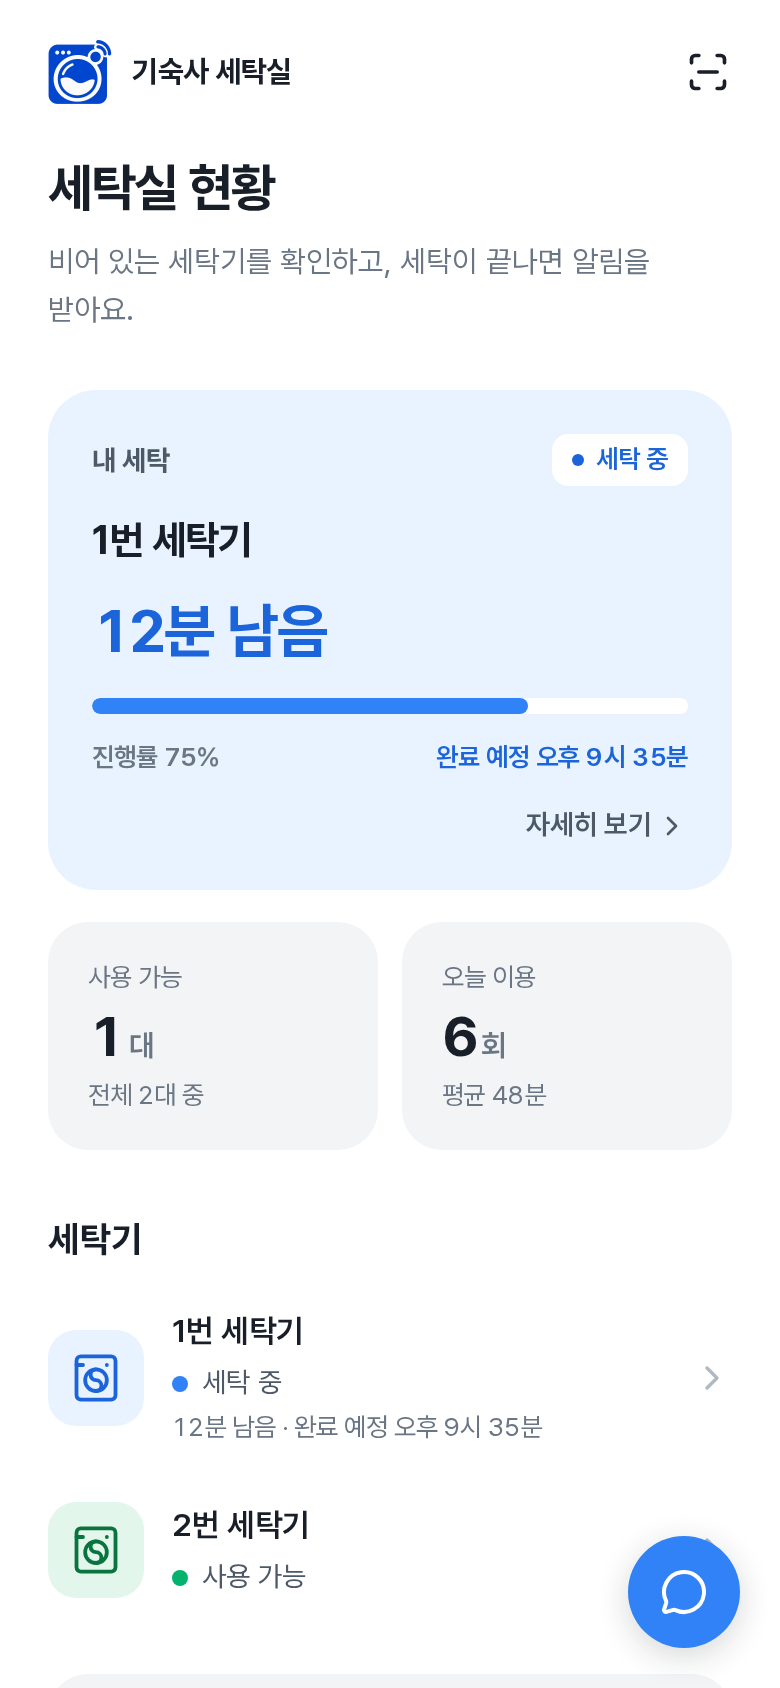
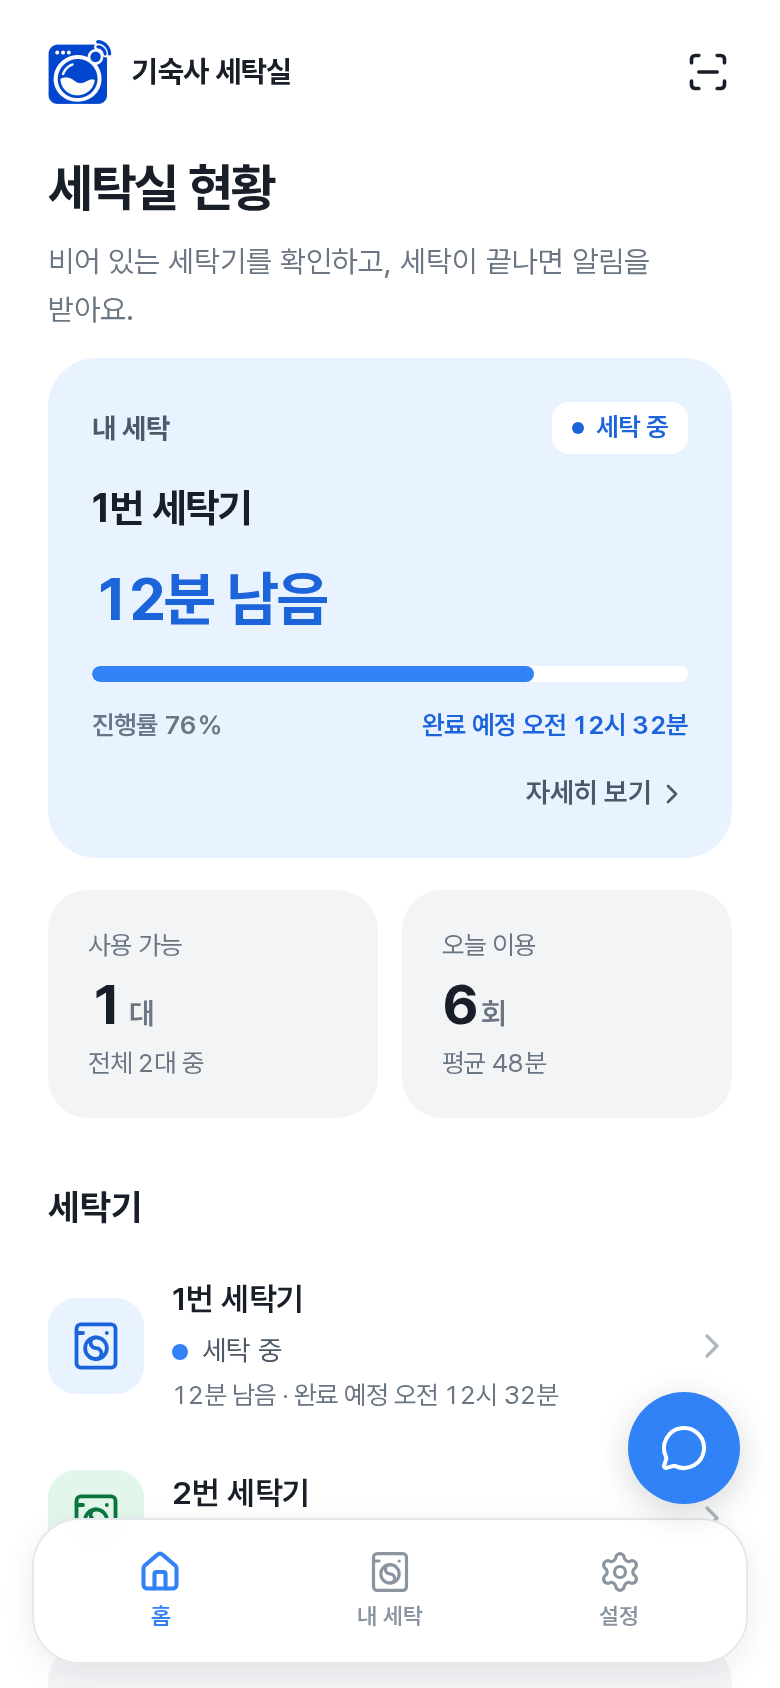
Add a bottom navigation with My wash and Settings screens
Home, My wash and Settings get a floating tab bar that only shows on
those screens. My wash shows the current wash at a glance (or a QR
scan prompt when there is none) with pickup/cancel actions; Settings
edits name and student ID, manages notifications and logs out. Adds
GET /api/me and lets pages refresh the washer overview after actions.

diff --git a/app/settings/page.tsx b/app/settings/page.tsx
@@ -1,0 +1,138 @@
+'use client';
+/* eslint-disable react-hooks/set-state-in-effect -- read browser-only state after hydration */
+
+import { useEffect, useState, type FormEvent } from 'react';
+import { useRouter } from 'next/navigation';
+import { pushSupported, registerPush } from '@/lib/push/client';
+
+type PushState = 'checking' | 'unsupported' | 'on' | 'off' | 'denied';
+
+const pushText: Record<PushState, string> = {
+  checking: '알림 상태를 확인하는 중이에요',
+  unsupported: '이 기기에서는 알림을 지원하지 않아요',
+  on: '알림이 켜져 있어요',
+  off: '알림이 꺼져 있어요',
+  denied: '기기 설정에서 이 앱의 알림을 허용해주세요',
+};
+
+function authHeaders() {
+  return { authorization: `Bearer ${localStorage.getItem('laundry-token') ?? ''}` };
+}
+
+export default function SettingsPage() {
+  const router = useRouter();
+  const [name, setName] = useState('');
+  const [studentId, setStudentId] = useState('');
+  const [saving, setSaving] = useState(false);
+  const [profileMessage, setProfileMessage] = useState('');
+  const [profileError, setProfileError] = useState('');
+  const [push, setPush] = useState<PushState>('checking');
+  const [pushBusy, setPushBusy] = useState(false);
+  const [pushMessage, setPushMessage] = useState('');
+  const [confirming, setConfirming] = useState(false);
+
+  useEffect(() => {
+    fetch('/api/me', { headers: authHeaders(), cache: 'no-store' })
+      .then((response) => (response.ok ? response.json() : null))
+      .then((data) => { if (data) { setName(data.nickname); setStudentId(data.studentId ?? ''); } })
+      .catch(() => {});
+    if (!pushSupported()) setPush('unsupported');
+    else setPush(Notification.permission === 'granted' ? 'on' : Notification.permission === 'denied' ? 'denied' : 'off');
+  }, []);
+
+  async function saveProfile(event: FormEvent<HTMLFormElement>) {
+    event.preventDefault();
+    if (saving) return;
+    setSaving(true);
+    setProfileMessage('');
+    setProfileError('');
+    try {
+      const response = await fetch('/api/users', {
+        method: 'POST',
+        headers: { 'content-type': 'application/json', ...authHeaders() },
+        body: JSON.stringify({ nickname: name.trim(), studentId: studentId.trim() }),
+      });
+      if (!response.ok) throw new Error('save failed');
+      try {
+        const saved = JSON.parse(localStorage.getItem('laundry-user') ?? '{}');
+        localStorage.setItem('laundry-user', JSON.stringify({ ...saved, nickname: name.trim() }));
+      } catch { /* the stored profile is only a cache */ }
+      setProfileMessage('저장했어요.');
+    } catch {
+      setProfileError('저장하지 못했어요. 이름과 학번을 확인하고 다시 시도해주세요.');
+    } finally {
+      setSaving(false);
+    }
+  }
+
+  async function enablePush() {
+    setPushBusy(true);
+    setPushMessage('');
+    try {
+      const permission = await Notification.requestPermission();
+      if (permission !== 'granted') { setPush(permission === 'denied' ? 'denied' : 'off'); return; }
+      await registerPush(localStorage.getItem('laundry-token') ?? '');
+      setPush('on');
+      setPushMessage('알림을 켰어요.');
+    } catch {
+      setPushMessage('알림을 연결하지 못했어요. 잠시 후 다시 시도해주세요.');
+    } finally {
+      setPushBusy(false);
+    }
+  }
+
+  async function testPush() {
+    setPushBusy(true);
+    setPushMessage('');
+    try {
+      const response = await fetch('/api/push/test', { method: 'POST', headers: authHeaders() });
+      setPushMessage(response.ok ? '테스트 알림을 보냈어요.' : '알림을 보내지 못했어요. 알림 연결을 다시 확인해주세요.');
+    } catch {
+      setPushMessage('알림을 보내지 못했어요.');
+    } finally {
+      setPushBusy(false);
+    }
+  }
+
+  function logout() {
+    localStorage.removeItem('laundry-token');
+    localStorage.removeItem('laundry-user');
+    window.dispatchEvent(new Event('laundry-profile-updated'));
+    router.replace('/');
+  }
+
+  return <>
+    <div className="topline"><span className="brand">설정</span></div>
+
+    <section className="panel" aria-label="내 정보">
+      <div className="panel-head"><h2>내 정보</h2></div>
+      <form onSubmit={(event) => void saveProfile(event)}>
+        <label className="eyebrow" htmlFor="setting-name">이름</label>
+        <input className="input" id="setting-name" autoComplete="name" maxLength={60} value={name} onChange={(event) => setName(event.target.value)} required />
+        <label className="eyebrow" htmlFor="setting-student-id">학번</label>
+        <input className="input" id="setting-student-id" autoComplete="off" inputMode="numeric" maxLength={32} value={studentId} onChange={(event) => setStudentId(event.target.value)} required />
+        {profileError && <p className="error" role="alert">{profileError}</p>}
+        {profileMessage && <p className="muted" role="status">{profileMessage}</p>}
+        <button className="button" type="submit" disabled={saving || !name.trim() || !studentId.trim()}>{saving ? '저장하는 중…' : '저장하기'}</button>
+      </form>
+    </section>
+
+    <section className="panel" aria-label="알림">
+      <div className="panel-head"><h2>알림</h2></div>
+      <p className={`setting-status ${push}`}>{pushText[push]}</p>
+      {pushMessage && <p className="muted" role="status">{pushMessage}</p>}
+      <div className="setting-actions">
+        {push === 'off' && <button className="button" type="button" disabled={pushBusy} onClick={() => void enablePush()}>{pushBusy ? '연결하는 중…' : '알림 켜기'}</button>}
+        {push === 'on' && <button className="button secondary" type="button" disabled={pushBusy} onClick={() => void testPush()}>{pushBusy ? '보내는 중…' : '테스트 알림 보내기'}</button>}
+      </div>
+    </section>
+
+    <section className="panel" aria-label="이 기기">
+      <div className="panel-head"><h2>이 기기</h2></div>
+      <p className="lead">로그아웃해도 같은 이름과 학번으로 다시 등록하면 세탁 기록과 알림이 이어져요.</p>
+      {confirming
+        ? <div className="setting-actions"><button className="button danger" type="button" onClick={logout}>로그아웃하기</button><button className="button secondary" type="button" onClick={() => setConfirming(false)}>취소</button></div>
+        : <div className="setting-actions"><button className="button secondary" type="button" onClick={() => setConfirming(true)}>이 기기에서 로그아웃</button></div>}
+    </section>
+  </>;
+}

diff --git a/app/my/page.tsx b/app/my/page.tsx
@@ -1,0 +1,81 @@
+'use client';
+
+import { useState } from 'react';
+import Link from 'next/link';
+import { ScanLine, WashingMachine } from 'lucide-react';
+import { EventTimeline } from '@/components/event-timeline';
+import { useWasherOverview } from '@/components/use-washer-overview';
+import { WasherStatus } from '@/components/washer-status';
+import { WasherTiming } from '@/components/washer-timing';
+import { washerPresentation } from '@/lib/washer/presentation';
+
+function timeLabel(value: string | null) {
+  return value ? new Date(value).toLocaleTimeString('ko-KR', { hour: 'numeric', minute: '2-digit' }) : '—';
+}
+
+export default function MyWashPage() {
+  const { washers, myWasher, loaded, error, refresh } = useWasherOverview();
+  const [busy, setBusy] = useState(false);
+  const [actionError, setActionError] = useState('');
+  const available = washers.filter((washer) => washer.state === 'IDLE').length;
+
+  async function mutate(action: 'cancel' | 'pickup') {
+    if (!myWasher) return;
+    setBusy(true);
+    setActionError('');
+    try {
+      const response = await fetch(`/api/washers/${myWasher.id}/${action}`, {
+        method: 'POST',
+        headers: { 'content-type': 'application/json', authorization: `Bearer ${localStorage.getItem('laundry-token') ?? ''}` },
+        body: '{}',
+      });
+      const data = await response.json();
+      if (!response.ok) throw new Error(typeof data.error === 'string' ? data.error : '요청을 처리하지 못했어요.');
+      refresh();
+    } catch (cause) {
+      setActionError(cause instanceof Error ? cause.message : '요청을 처리하지 못했어요.');
+    } finally {
+      setBusy(false);
+    }
+  }
+
+  const topline = <div className="topline"><span className="brand">내 세탁</span><Link className="topline-scan" href="/scan" aria-label="QR 스캔 열기" title="QR 스캔"><ScanLine size={22} strokeWidth={2} aria-hidden="true" /></Link></div>;
+
+  if (!loaded) return <>{topline}<p className="muted" role="status">내 세탁을 불러오는 중이에요…</p></>;
+
+  if (!myWasher) return <>
+    {topline}
+    {error && <p className="notice" role="status">{error}</p>}
+    <section className="empty-state">
+      <span className="empty-icon" aria-hidden="true"><WashingMachine size={34} strokeWidth={1.6} /></span>
+      <h2>세탁 중인 세탁물이 없어요</h2>
+      <p className="lead">세탁하려면 세탁기에 붙은 QR을 스캔해주세요.</p>
+      <Link className="button" href="/scan"><ScanLine size={20} aria-hidden="true" />QR 스캔하기</Link>
+      <Link className="text-link" href="/washers">{available > 0 ? `비어 있는 세탁기 ${available}대 보기` : '세탁기 목록 보기'}</Link>
+    </section>
+  </>;
+
+  const status = washerPresentation(myWasher.state);
+  const running = !!myWasher.startedAt && (myWasher.state === 'RUNNING' || myWasher.state === 'MAYBE_FINISHED');
+  const finished = myWasher.state === 'FINISHED' || myWasher.state === 'WAITING_FOR_PICKUP';
+  return <>
+    {topline}
+    <section className={`my-card ${status.tone}`} aria-label="내 세탁 현황">
+      <span className="my-card-top"><span className="my-card-label">{myWasher.location}</span><WasherStatus state={myWasher.state} /></span>
+      <strong className="my-card-name">{myWasher.name}</strong>
+      {running ? <WasherTiming startedAt={myWasher.startedAt!} /> : <p className="my-card-text">{finished ? '세탁이 끝났어요. 세탁물을 꺼낸 뒤 수거 완료를 눌러주세요.' : myWasher.state === 'RESERVED' ? '사용 등록을 마쳤어요. 세탁기의 시작 버튼을 눌러주세요.' : status.headline}</p>}
+    </section>
+    <div className="detail-list">
+      <div className="detail-row"><span>세탁 상태</span><span>{status.label}</span></div>
+      <div className="detail-row"><span>시작 시각</span><span>{timeLabel(myWasher.startedAt)}</span></div>
+      {finished && <div className="detail-row"><span>완료 시각</span><span>{timeLabel(myWasher.finishedAt)}</span></div>}
+    </div>
+    {actionError && <p className="error" role="alert">{actionError}</p>}
+    <div className="my-actions">
+      {finished && <button className="button" type="button" disabled={busy} onClick={() => void mutate('pickup')}>{busy ? '처리하는 중…' : '수거 완료하기'}</button>}
+      {myWasher.state === 'RESERVED' && <button className="button secondary" type="button" disabled={busy} onClick={() => void mutate('cancel')}>{busy ? '취소하는 중…' : '등록 취소하기'}</button>}
+      <Link className="button secondary" href={`/washer/${myWasher.id}`}>세탁기 자세히 보기</Link>
+    </div>
+    <EventTimeline washerId={myWasher.id} />
+  </>;
+}

diff --git a/app/globals.css b/app/globals.css
@@ -216,10 +216,43 @@ select.input { appearance: none; padding-right: 36px; background-image: url("dat
 
 .timeline { margin: 0; padding: 0; list-style: none; }
 .timeline li { display: flex; gap: 14px; padding: 9px 0; font-size: 14px; }
-.timeline time { flex: none; width: 64px; color: var(--grey-600); font-variant-numeric: tabular-nums; }
+.timeline time { flex: none; width: 84px; white-space: nowrap; color: var(--grey-600); font-variant-numeric: tabular-nums; }
 .timeline li > span { display: grid; gap: 1px; min-width: 0; }
 .timeline strong { font-weight: 600; }
 .timeline small { font-size: 12px; color: var(--grey-600); font-variant-numeric: tabular-nums; }
+
+/* ---------- Bottom navigation, my wash, settings ---------- */
+.bottom-nav {
+  position: fixed; z-index: 25; left: 50%; bottom: calc(12px + env(safe-area-inset-bottom)); width: min(calc(100% - 32px), 420px); transform: translateX(-50%);
+  display: grid; grid-template-columns: repeat(3, 1fr); padding: 6px; border: 1px solid var(--grey-200); border-radius: var(--radius-3xl);
+  background: rgb(255 255 255 / 0.96); backdrop-filter: blur(12px); box-shadow: 0 4px 16px rgb(25 31 40 / 0.08);
+}
+.bottom-nav a {
+  display: flex; flex-direction: column; align-items: center; gap: 3px; padding: 9px 0 8px; border-radius: 18px;
+  color: var(--grey-500); text-decoration: none; font-size: 11.5px; font-weight: 600;
+  transition: background var(--dur-fast) var(--ease), color var(--dur-fast) var(--ease);
+}
+.bottom-nav a[aria-current='page'] { color: var(--blue-500); }
+.bottom-nav a:active { background: var(--grey-100); }
+body:has(.bottom-nav) .student-app { padding-bottom: calc(116px + env(safe-area-inset-bottom)); }
+body:has(.bottom-nav) .chat-fab { bottom: calc(92px + env(safe-area-inset-bottom)); }
+
+.empty-state { display: grid; justify-items: center; gap: 10px; padding: 56px 8px 24px; text-align: center; }
+.empty-icon { display: grid; place-items: center; width: 76px; height: 76px; margin-bottom: 6px; border-radius: 26px; background: var(--grey-100); color: var(--grey-500); }
+.empty-state .button { max-width: 320px; margin-top: 14px; }
+.my-card { margin-top: 12px; }
+.my-actions { display: grid; gap: 10px; margin-top: 20px; }
+.my-actions .button { text-decoration: none; }
+
+.panel .input { background: #fff; }
+.panel .button.secondary { background: #fff; }
+.panel .button.secondary:active { background: var(--grey-200); }
+.panel .input:focus { border-color: var(--blue-500); }
+.panel form .button { margin-top: 4px; }
+.setting-status { margin-bottom: 12px; font-size: 15px; font-weight: 600; }
+.setting-status.on { color: var(--green-700); }
+.setting-status.denied, .setting-status.unsupported { color: var(--orange-700); }
+.setting-actions { display: grid; gap: 10px; margin-top: 14px; }
 
 /* ---------- Washer detail ---------- */
 .status-panel { margin: 4px 0 24px; }

diff --git a/components/use-washer-overview.ts b/components/use-washer-overview.ts
@@ -1,6 +1,6 @@
 'use client';
 
-import { useEffect, useState } from 'react';
+import { useEffect, useRef, useState } from 'react';
 import type { WasherSummary } from '@/lib/washer/presentation';
 
 export function useWasherOverview() {
@@ -8,6 +8,7 @@ export function useWasherOverview() {
   const [myWasher, setMyWasher] = useState<WasherSummary | null>(null);
   const [loaded, setLoaded] = useState(false);
   const [error, setError] = useState('');
+  const loadRef = useRef<() => void>(() => {});
 
   useEffect(() => {
     let live = true;
@@ -36,6 +37,7 @@ export function useWasherOverview() {
         setLoaded(true);
       });
     };
+    loadRef.current = load;
     load();
     const interval = setInterval(load, 5000);
     document.addEventListener('visibilitychange', load);
@@ -46,5 +48,5 @@ export function useWasherOverview() {
     };
   }, []);
 
-  return { washers, myWasher, loaded, error };
+  return { washers, myWasher, loaded, error, refresh: () => loadRef.current() };
 }

diff --git a/components/bottom-nav.tsx b/components/bottom-nav.tsx
@@ -1,0 +1,22 @@
+'use client';
+
+import Link from 'next/link';
+import { usePathname } from 'next/navigation';
+import { House, Settings, WashingMachine } from 'lucide-react';
+
+const tabs = [
+  { href: '/', label: '홈', icon: House },
+  { href: '/my', label: '내 세탁', icon: WashingMachine },
+  { href: '/settings', label: '설정', icon: Settings },
+] as const;
+
+// Only the top-level screens show the bar; detail and scan screens keep their own actions at the bottom.
+export function BottomNav() {
+  const path = usePathname();
+  if (!tabs.some((tab) => tab.href === path)) return null;
+  return <nav className="bottom-nav" aria-label="주요 메뉴">
+    {tabs.map(({ href, label, icon: Icon }) => <Link key={href} href={href} aria-current={path === href ? 'page' : undefined}>
+      <Icon size={22} strokeWidth={path === href ? 2.25 : 1.75} aria-hidden="true" />{label}
+    </Link>)}
+  </nav>;
+}

diff --git a/app/api/me/route.ts b/app/api/me/route.ts
@@ -1,0 +1,17 @@
+import { NextResponse } from 'next/server';
+import { eq } from 'drizzle-orm';
+import { userFromRequest } from '@/lib/auth/identity';
+import { getDb } from '@/lib/db';
+import { users } from '@/lib/db/schema';
+import { apiError, unauthorized } from '@/lib/http';
+
+export async function GET(request: Request) {
+  try {
+    const user = await userFromRequest(request);
+    if (!user) return unauthorized('사용자 정보를 다시 등록해주세요.');
+    const [row] = await getDb().select({ nickname: users.nickname, studentId: users.studentId }).from(users).where(eq(users.id, user.id)).limit(1);
+    return NextResponse.json({ nickname: row?.nickname ?? user.nickname, studentId: row?.studentId ?? null });
+  } catch (error) {
+    return apiError(error);
+  }
+}

diff --git a/components/app-frame.tsx b/components/app-frame.tsx
@@ -6,6 +6,7 @@ import { useEffect, useState } from 'react';
 import Image from 'next/image';
 import { Onboarding } from '@/components/onboarding';
 import { InstallGate, useInstallPrompt } from '@/components/install-prompt';
+import { BottomNav } from '@/components/bottom-nav';
 import { ChatAssistant } from '@/components/chat-assistant';
 import { PushRegistration } from '@/components/push-registration';
 import { AndroidNotificationSetup, shouldShowAndroidNotificationSetup } from '@/components/android-notification-setup';
@@ -129,6 +130,7 @@ export function AppFrame({ children }: { children: React.ReactNode }) {
       {children}
       {!admin && <PushRegistration visible={path === '/'} />}
     </main>
+    {!admin && <BottomNav />}
     {!admin && <ChatAssistant />}
   </>;
 }
